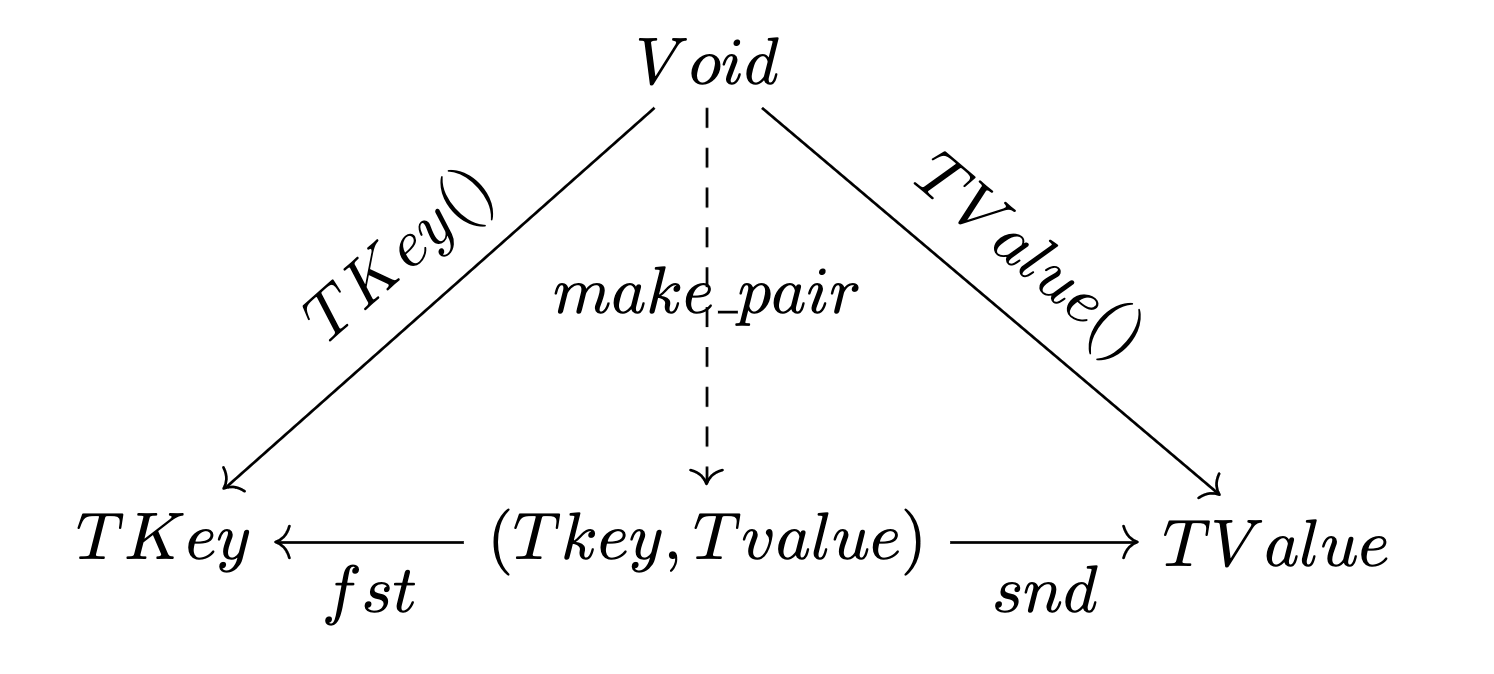
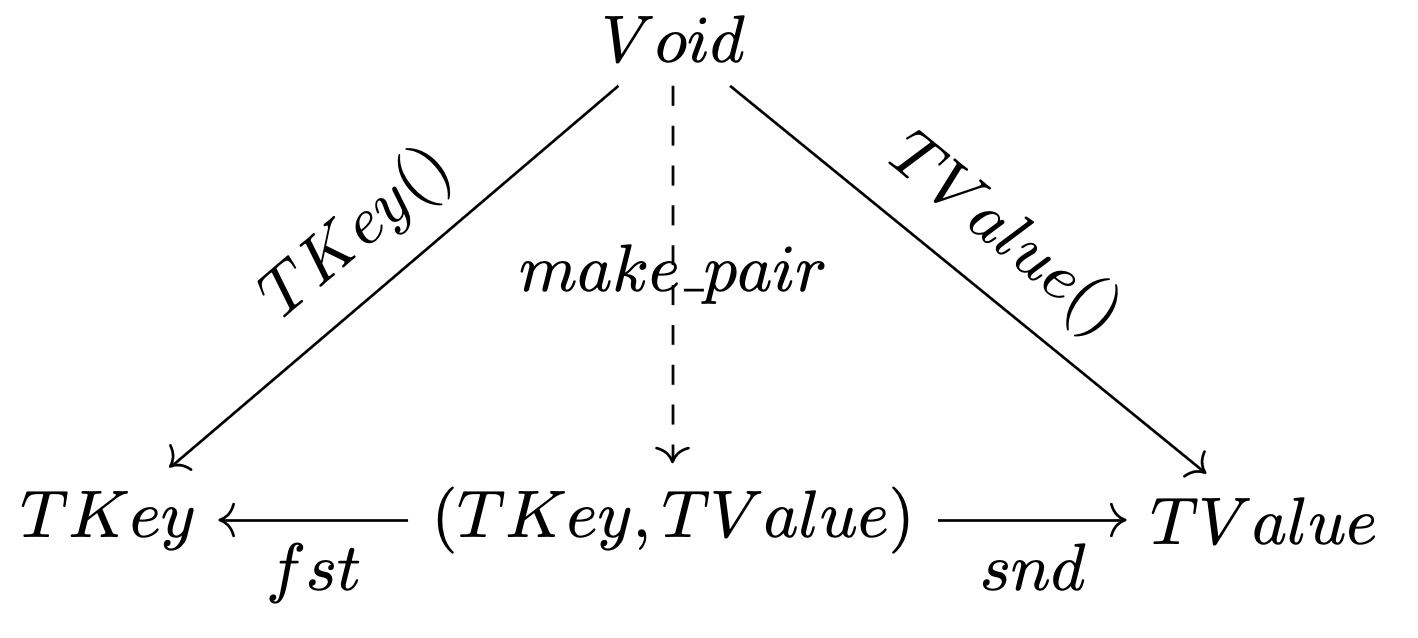
feat(disc4): fix typo and add .tex

diff --git a/tex/disc4.tex b/tex/disc4.tex
@@ -1,0 +1,50 @@
+\documentclass{article}
+
+% Language setting
+% Replace `english' with e.g. `spanish' to change the document language
+\usepackage[english]{babel}
+
+% Set page size and margins
+% Replace `letterpaper' with `a4paper' for UK/EU standard size
+\usepackage[letterpaper,top=2cm,bottom=2cm,left=3cm,right=3cm,marginparwidth=1.75cm]{geometry}
+
+% Useful packages
+\usepackage{amsmath}
+\usepackage{graphicx}
+\usepackage[colorlinks=true, allcolors=blue]{hyperref}
+\usepackage{tikz-cd}
+\usetikzlibrary{positioning}
+
+\begin{document}
+
+\begin{center}
+\begin{tikzpicture}[transform canvas={scale=2.0}]
+  \node (c) {$C$};
+  \node (ab) [below=2 of c] {$(A, B)$};
+  \node (a) [left=of ab] {$A$};
+  \node (b) [right=of ab] {$B$};
+  \draw[->] (c) to node [sloped, above] {$g$} (b);
+  \draw[<-] (a) to node [sloped, above] {$f$} (c);
+  \draw[->, dashed] (c) to node {$(f,g)$} (ab);
+  \draw[->] (ab) to node [below] {$fst$} (a);
+  \draw[->] (ab) to node [below] {$snd$} (b);
+\end{tikzpicture}
+\end{center}
+
+\vspace{10cm}
+
+\begin{center}
+\begin{tikzpicture}[transform canvas={scale=2.0}]
+  \node (c) {$Void$};
+  \node (ab) [below=2 of c] {$(TKey, TValue)$};
+  \node (a) [left=of ab] {$TKey$};
+  \node (b) [right=of ab] {$TValue$};
+  \draw[->] (c) to node [sloped, above] {$TValue()$} (b);
+  \draw[<-] (a) to node [sloped, above] {$TKey()$} (c);
+  \draw[->, dashed] (c) to node {$make\_pair$} (ab);
+  \draw[->] (ab) to node [below] {$fst$} (a);
+  \draw[->] (ab) to node [below] {$snd$} (b);
+\end{tikzpicture}
+\end{center}
+
+\end{document}

diff --git a/discussion4.md b/discussion4.md
@@ -308,9 +308,9 @@ Let $A, B, C$ be types, then $(A, B)$ is a pair of type $A$ **and** $B$.
 
 ![w:400px](./image/disc4/AxB.png)
 
-Since $(A, B)$ is just another notation for $A \times B$,
+$(A, B)$ is just another notation for $A \times B$,
 which is the [Cartesian product](https://en.wikipedia.org/wiki/Cartesian_product) of set $A$ and $B$.
-This type is also called a **product type**.
+So this type is also called a **product type**.
 
 ---
 
